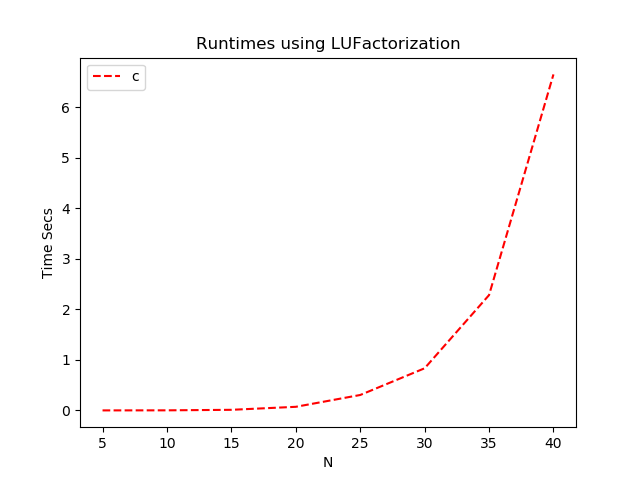
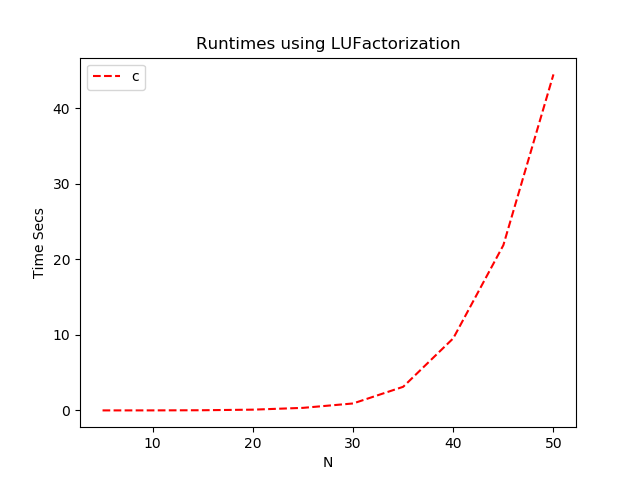
main now outputs to output.txt, added new targets to makefile: make plot size=[int], make time

diff --git a/main.cpp b/main.cpp
@@ -5,9 +5,11 @@
 */
 #include "partial.h"
 #include <iostream>
-#include <chrono> 
+#include <chrono>
 #include <iomanip>
+#include <fstream>
 #include <cmath>
+#include "vector.h"
 
 using namespace std::chrono;
 
@@ -30,7 +32,25 @@ int main(int argc, char** argv)
     return 1;
   }
 
-  PDE(xUp, xLow, yUp, yLow, std::stoi(argv[1]));
+  int size = std::stoi(argv[1]);
+  std::ofstream out("output.txt");
+
+  //Gets Data to "output.txt"
+  vector<double> v = PDE(xUp, xLow, yUp, yLow, size);
+  for(int y = 0; y < size+1; y++)
+  {
+    for(int x = 0; x < size+1; x++)
+    {
+      if(y == 0 && x != size) out << sin(3.14159/(size)*x) << " ";
+      else if(y == 0 && x == size) out << sin(3.14159/(size)*x);
+      else if(x == 0) out << sin(3.14159/(size)*y) << " ";
+      else if(x == size) out << 0.0;
+      else if(y == size) out << 0.0 << " ";
+      else out << v[(y-1)*(size-1)+(x-1)] << " ";
+    }
+    out << std::endl;
+  }
+  out.close();
 
   return 0;
 }

diff --git a/plotter.py b/plotter.py
@@ -1,0 +1,26 @@
+import os
+import sys
+from mpl_toolkits.mplot3d import Axes3D
+import matplotlib.pyplot as plt
+import numpy as np
+
+if len(sys.argv) != 2:
+    print("Must have size argument!")
+    sys.exit()
+
+size = int(sys.argv[1])
+
+os.system('./driver {}'.format(size))
+with open('output.txt', 'r') as f:
+    matrix = [[float(num) for num in line.split(' ')] for line in f]
+
+x = y = np.arange(0,size+1,1)
+X, Y = np.meshgrid(x,y)
+z = np.array(matrix)
+Z = z.reshape(X.shape)
+
+fig = plt.figure()
+ax = fig.add_subplot(111, projection='3d')
+ax.plot_surface(X,Y,Z,rstride=1,cstride=1,cmap='Blues')
+
+plt.show()

diff --git a/time_it.py b/time_it.py
@@ -1,13 +1,13 @@
 import time
-import subprocess as sp 
-import os 
+import subprocess as sp
+import os
 import csv
 import pandas as pd
 import matplotlib.pyplot as plt
 
 times1=[]
 times2=[]
-sizes=[5,10,15,20,25,30,35,40]#,45]#,50,55,60,65,70,75,80,85,90,95,100]
+sizes=[5,10,15,20,25,30,35,40,45,50]#,55,60,65,70,75,80,85,90,95,100]
 time_diff = 0
 
 for size in sizes:
